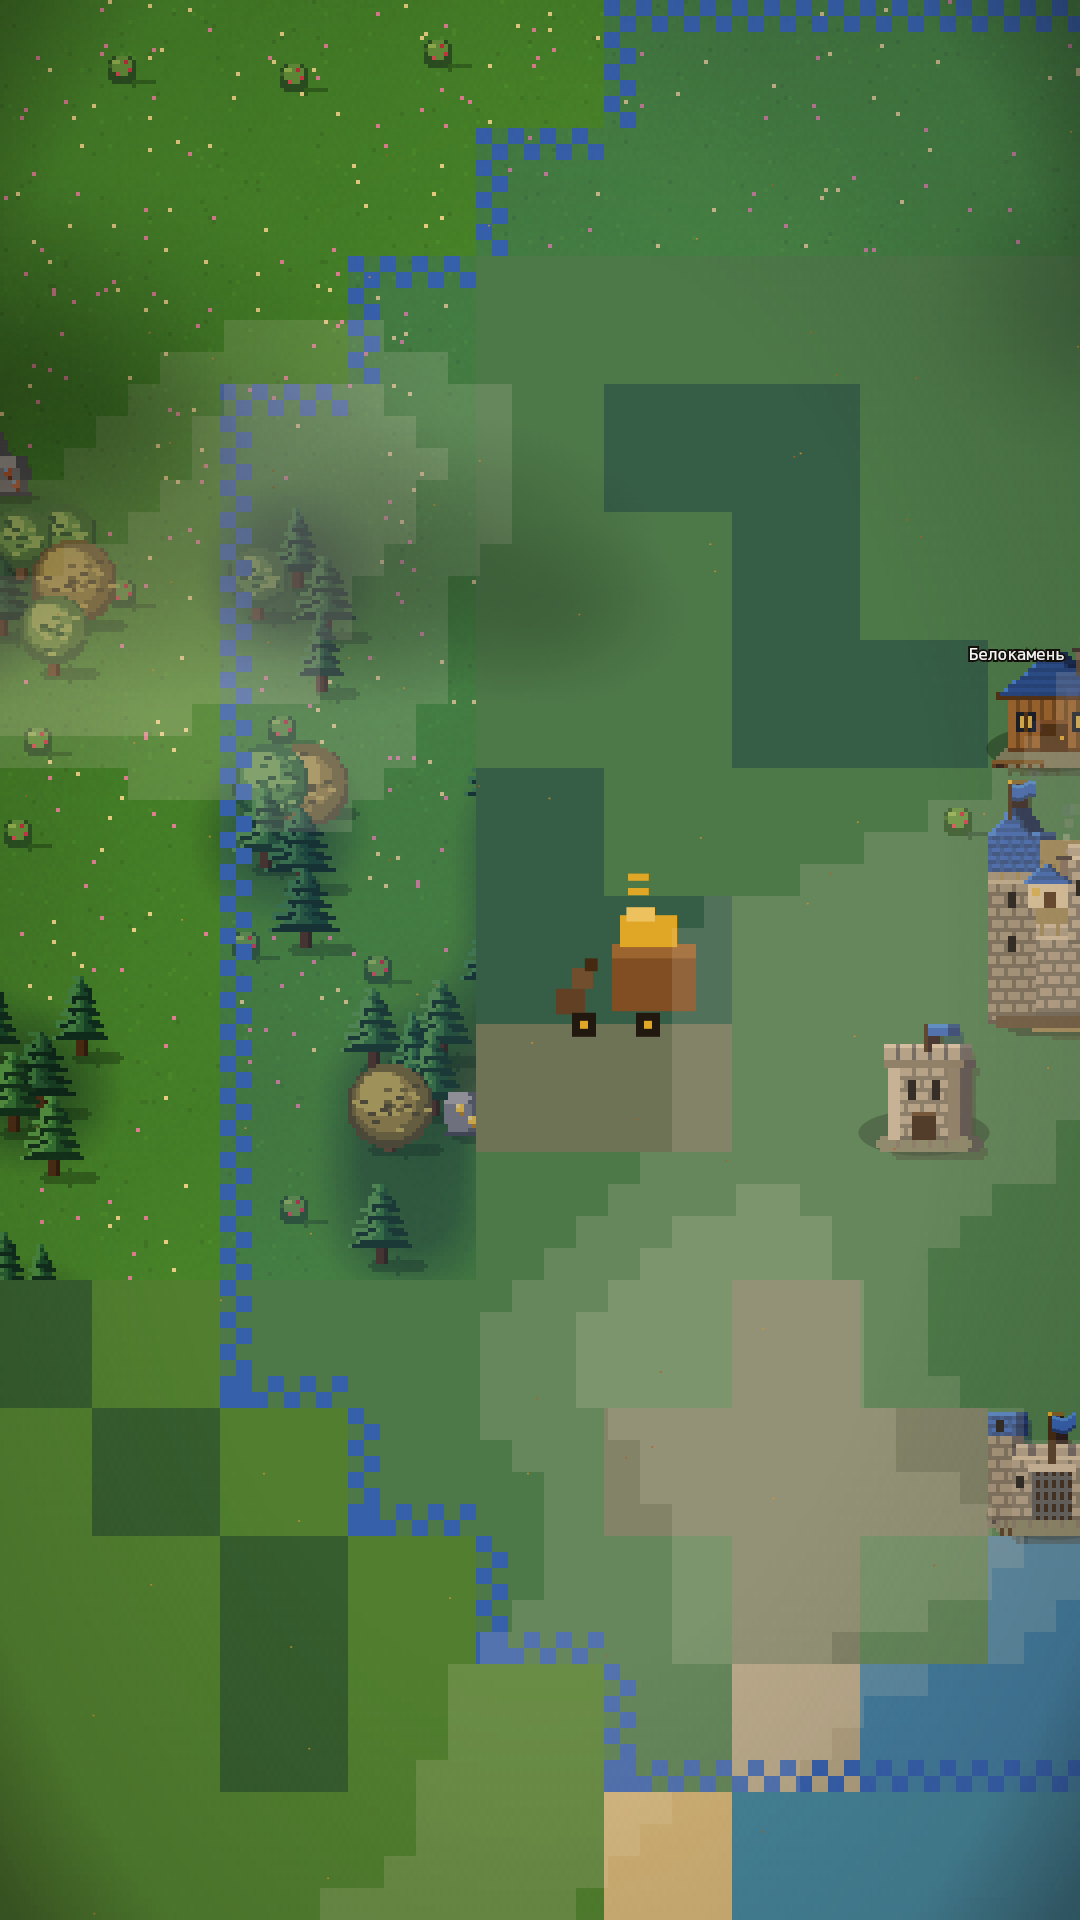
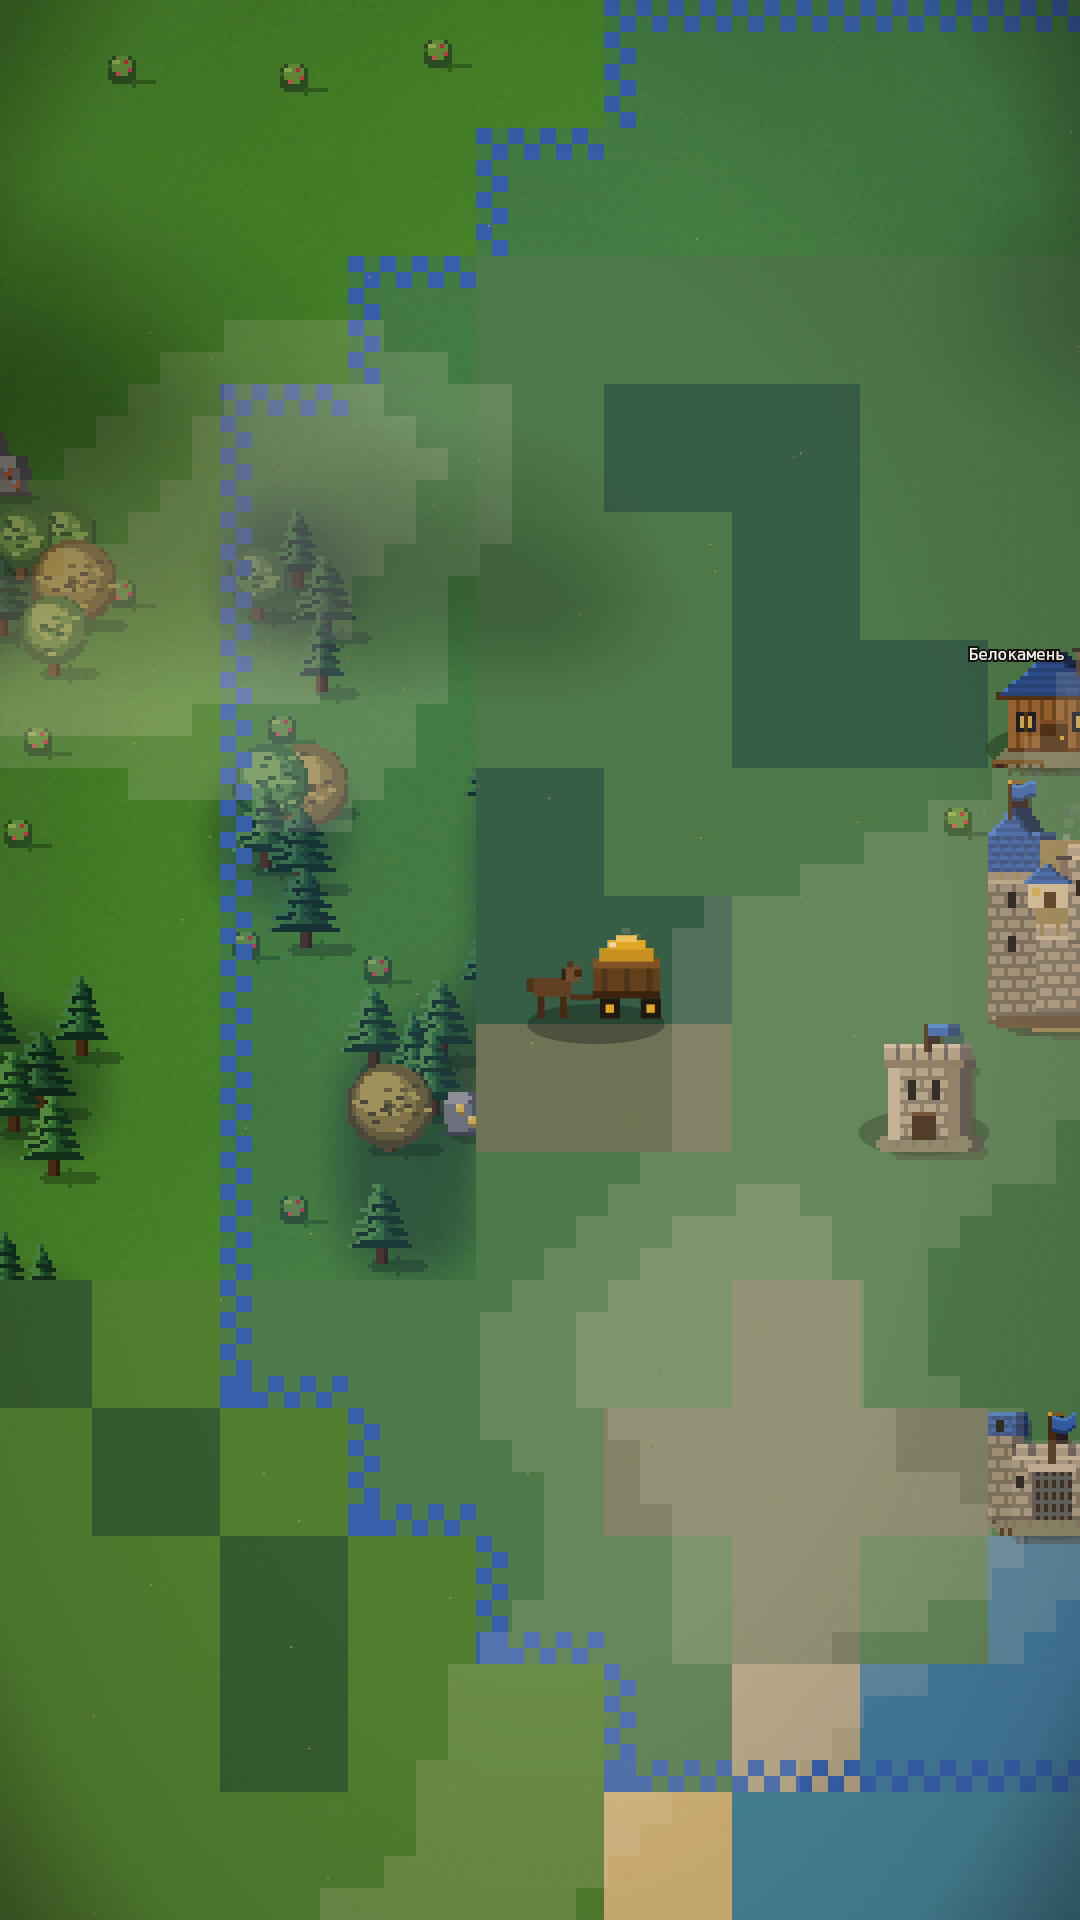
2.9.1 (в работе): караван зеркалится целиком (лошадка больше не отрывается), новая телега с золотом и тенью; убраны песчинки на лугу и пляже; скриншоты обновлены

Changed region(s): [[0.4889, 0.4375, 0.6417, 0.5625]]

diff --git a/game/kingdom-crash/www/js/render.js b/game/kingdom-crash/www/js/render.js
@@ -399,14 +399,36 @@ function markerHit(S, tx, ty) { // тап по значку армии
 function drawCars(c, S, tm, vx0, vy0, vx1, vy1) {
   for (const car of S.cars || []) {
     if (car.x < vx0 - 1 || car.x > vx1 || car.y < vy0 - 1 || car.y > vy1) continue;
-    const x = car.x * TS, y = car.y * TS + Math.sin(tm * 6 + car.id) * 0.4, f = car.face, K = 2.1; // покрупнее, чтобы заметно на карте
-    const sq = (dx, dy, w, h, col) => R_(c, (f > 0 ? x + dx : x - dx - w) * 1, y + dy, w, h, col);
-    sq(2, 4, 3.6, 3.2, '#6a4a2e'); sq(4, 1.4, 2.6, 2.6, '#7a5a3a'); sq(5.6, 0.2, 1.6, 1.6, '#4a2e14'); // лошадка
-    sq(9, -1.6, K * 5, K * 4, '#8a5a2b'); sq(9, -1.6, K * 5, 1.8, '#a8743a'); // кузов
-    sq(10, -5.2, K * 3.4, K * 1.9, '#f2c230'); sq(10.8, -6.2, K * 1.7, 1.8, '#ffe27a'); // груз золота
-    R_(c, x + 4, y + 7, 3, 3, '#231a12'); R_(c, x + 12, y + 7, 3, 3, '#231a12'); // колёса
-    R_(c, x + 5, y + 8, 1, 1, '#f2c230'); R_(c, x + 13, y + 8, 1, 1, '#f2c230');
-    if (RN.cam.z >= 1.1) { c.fillStyle = '#f2c230'; c.fillRect(x + 11, y - 8.6, 2.6, 0.9); c.fillRect(x + 11, y - 10.4, 2.6, 0.9); } // монеты над грузом
+    const x = car.x * TS, y = car.y * TS + Math.sin(tm * 6 + car.id) * 0.4, f = car.face;
+    c.save();
+    c.translate(x, y);
+    if (f < 0) c.scale(-1, 1); // вся телега целиком смотрится в другую сторону
+    c.fillStyle = 'rgba(6,12,8,0.32)'; c.beginPath(); c.ellipse(7, 8.4, 8.6, 2.5, 0, 0, 6.3); c.fill(); // мягкая тень
+    // лошадка: хвост, тело, грива, голова, ноги
+    R_(c, -1.7, 2.7, 1.1, 1.7, '#553a22');
+    R_(c, -0.8, 2.6, 4.7, 2.4, '#6a4a2e');
+    R_(c, 2.7, 1.5, 1.2, 1.4, '#3a2410');
+    R_(c, 3.2, 1.1, 1.8, 2.0, '#7a5a3a');
+    R_(c, 4.3, 1.6, 0.9, 0.9, '#4a2e14');
+    R_(c, 3.4, 0.6, 0.7, 0.7, '#553a22'); // уши
+    R_(c, -0.3, 5.0, 0.85, 2.7, '#4a3018'); R_(c, 2.5, 5.0, 0.85, 2.7, '#4a3018'); // ноги
+    // оглобли
+    R_(c, 3.8, 4.7, 3.2, 0.75, '#553a22');
+    // телега: кузов, верхний борт с досками, дно
+    R_(c, 6.6, 0.2, 8.4, 4.8, '#6b4a22');
+    R_(c, 6.6, 0.2, 8.4, 1.25, '#8a5f30');
+    R_(c, 7.7, 1.5, 0.75, 3.5, '#553a22'); R_(c, 10.5, 1.5, 0.75, 3.5, '#553a22'); R_(c, 13.3, 1.5, 0.75, 3.5, '#553a22');
+    R_(c, 6.6, 4.3, 8.4, 0.9, '#3e2810');
+    // груз золота
+    R_(c, 7.4, -1.1, 6.8, 1.7, '#d8a829');
+    R_(c, 8.4, -2.1, 4.8, 1.2, '#f2c230');
+    R_(c, 9.5, -2.7, 2.6, 0.85, '#ffe27a');
+    R_(c, 8.6, -1.8, 0.9, 0.6, '#fffbe0');
+    // колёса со ступицами
+    R_(c, 7.5, 5.2, 2.5, 2.5, '#231a12'); R_(c, 12.6, 5.2, 2.5, 2.5, '#231a12');
+    R_(c, 8.2, 5.95, 1.05, 1.05, '#f2c230'); R_(c, 13.3, 5.95, 1.05, 1.05, '#f2c230');
+    if (RN.cam.z >= 1.4) { const bl = 0.55 + 0.45 * Math.sin(tm * 3 + car.id); c.globalAlpha = Math.max(0.15, bl); R_(c, 10.2, -3.6, 1.1, 0.7, '#fffbe0'); R_(c, 11.8, -2.9, 0.8, 0.5, '#fff2c8'); c.globalAlpha = 1; } // блик на золоте
+    c.restore();
   }
 }
 /* праздник: фейерверк и огни над городом */

diff --git a/game/kingdom-crash/www/js/terrain.js b/game/kingdom-crash/www/js/terrain.js
@@ -121,8 +121,6 @@ const TERR = (() => {
             r = 228 + 14 * rip; g = 206 + 14 * rip; b = 150 + 12 * rip;
             if (L < 0.545) { r = 206; g = 184; b = 132; }
             li += (gr - 0.5) * 0.06 + (ns(NA, X * 0.6 + 3, Y * 2.2) - 0.5) * 0.07;
-            if (gr > 0.993) { r = 152; g = 142; b = 122; li *= 0.93; }
-            else if (gr < 0.004 && L > 0.56) { r = 238; g = 228; b = 200; }
           } else {
             let dq = bil(dry) + (big - 0.5) * 0.7; dq = dq < 0 ? 0 : dq > 1 ? 1 : dq;
             r = 76 + 88 * dq; g = 152 + 26 * dq; b = 52 + 30 * dq; // сочный луг → сухая равнина
@@ -130,10 +128,6 @@ const TERR = (() => {
             if (hv > 0.1) { let k = (hv - 0.1) / 0.4; if (k > 1) k = 1; r += (138 - r) * k; g += (128 - g) * k; b += (82 - b) * k; if (hv > 0.36) { const q = (hv - 0.36) / 0.14; r += (116 - r) * q; g += (112 - g) * q; b += (104 - b) * q; } }
             const patch = ns(NB, X * 0.32 + 11, Y * 0.32 + 21);
             li += (ns(NA, X * 0.33 + 7, Y * 0.33 + 3) - 0.5) * 0.15 + (gr - 0.5) * 0.028 + (patch - 0.5) * 0.16; // пёстрые поляны
-            if (hv < 0.08 && fo <= 0) { // метёлки травы и редкие цветы
-              if (gr > 0.9935) li *= 0.9; else if (gr < 0.005) li *= 1.09;
-              else if (dq < 0.5 && step === 1) { const fl = grain(X + 911, Y + 577); if (fl > 0.9972) { r = 250; g = 238; b = 168; li = 1; } else if (fl < 0.0022) { r = 238; g = 148; b = 188; li = 1; } else if (fl > 0.4988 && fl < 0.5010) { r = 248; g = 248; b = 242; li = 1; } else if (fl > 0.7495 && fl < 0.7506) { r = 240; g = 196; b = 90; li = 1; } }
-            }
           }
           r *= li; g *= li; b *= li;
         }
